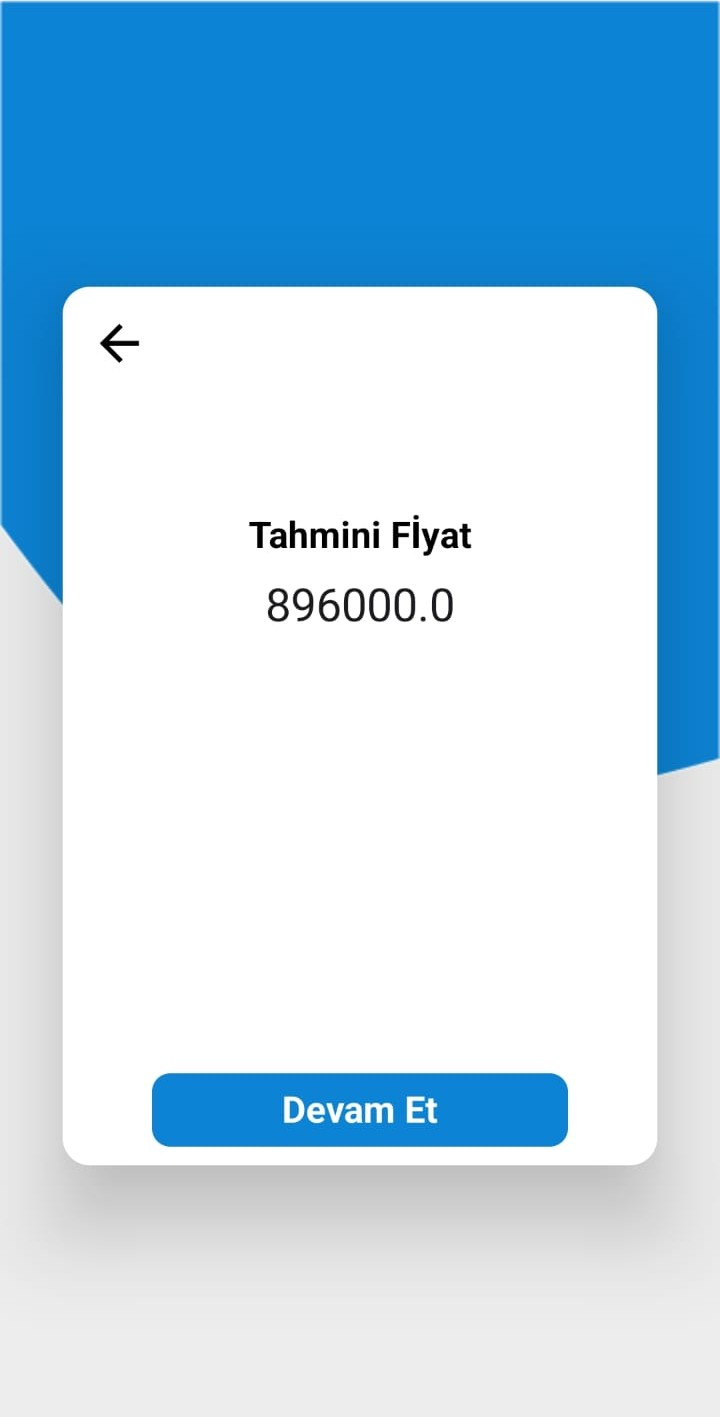
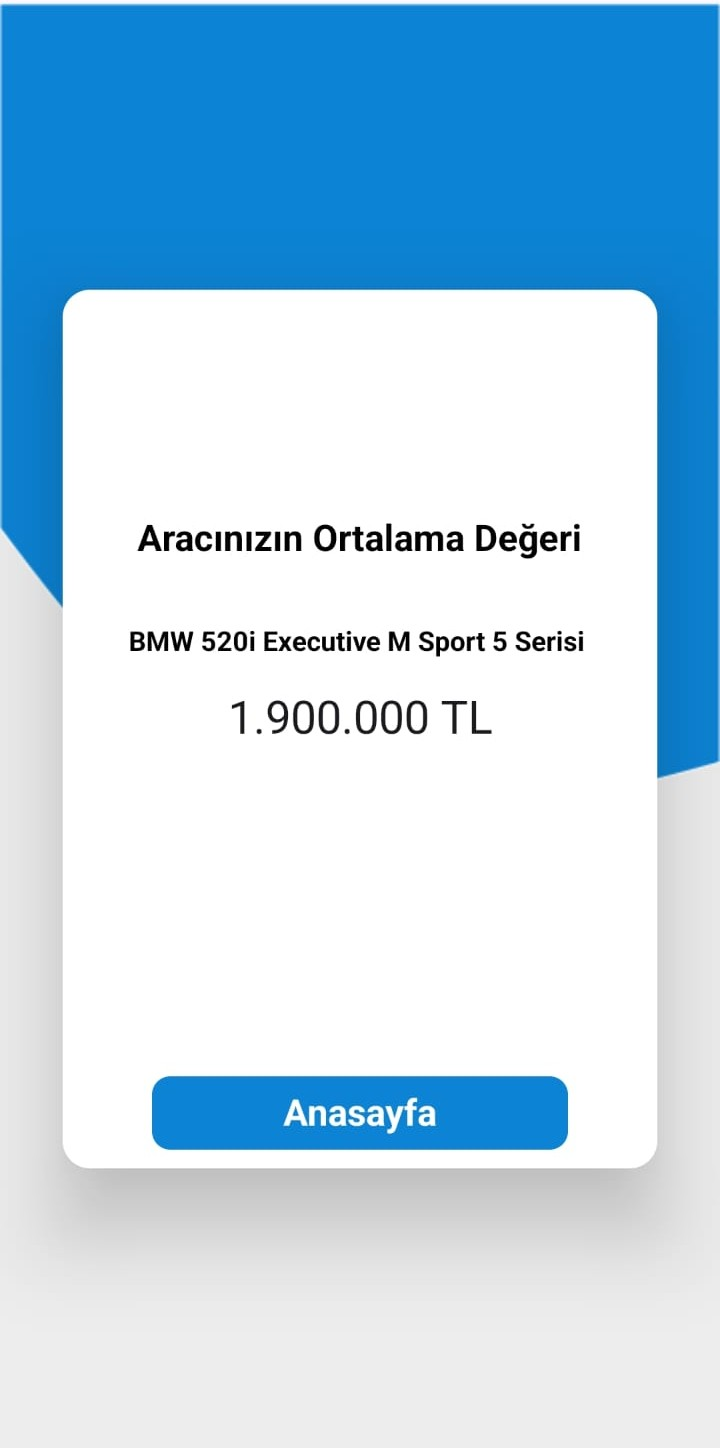
Sonuc Sayfasi guncellendi

diff --git a/App/app/src/main/java/com/example/carworth/uix/view/SonucSayfasi.kt b/App/app/src/main/java/com/example/carworth/uix/view/SonucSayfasi.kt
@@ -1,0 +1,141 @@
+package com.example.carworth.uix.view
+
+import androidx.compose.foundation.Image
+import androidx.compose.foundation.background
+import androidx.compose.foundation.layout.Box
+import androidx.compose.foundation.layout.Column
+import androidx.compose.foundation.layout.fillMaxSize
+import androidx.compose.foundation.layout.fillMaxWidth
+import androidx.compose.foundation.layout.height
+import androidx.compose.foundation.layout.padding
+import androidx.compose.foundation.layout.width
+import androidx.compose.foundation.shape.RoundedCornerShape
+import androidx.compose.material3.Button
+import androidx.compose.material3.ButtonDefaults
+import androidx.compose.material3.CircularProgressIndicator
+import androidx.compose.material3.Scaffold
+import androidx.compose.material3.Text
+import androidx.compose.runtime.Composable
+import androidx.compose.runtime.LaunchedEffect
+import androidx.compose.runtime.mutableStateOf
+import androidx.compose.runtime.remember
+import androidx.compose.ui.Alignment
+import androidx.compose.ui.Modifier
+import androidx.compose.ui.draw.shadow
+import androidx.compose.ui.graphics.Color
+import androidx.compose.ui.layout.ContentScale
+import androidx.compose.ui.res.painterResource
+import androidx.compose.ui.text.TextStyle
+import androidx.compose.ui.text.font.FontWeight
+import androidx.compose.ui.tooling.preview.Preview
+import androidx.compose.ui.unit.dp
+import androidx.compose.ui.unit.sp
+import androidx.navigation.NavController
+import com.example.carworth.R
+import com.example.carworth.ui.theme.MainColor
+import com.example.carworth.ui.theme.backgroundColor
+import com.example.carworth.uix.view.fonk.Araba
+import com.example.carworth.uix.view.fonk.VSpacers
+import com.example.carworth.uix.view.fonk.getArabaFiyati
+import java.text.NumberFormat
+import java.util.Locale
+
+
+@Composable
+fun SonucSayfasi(navController: NavController,araba: Araba) {
+    val fiyat = remember { mutableStateOf("") }
+    val loading = remember { mutableStateOf(true) }
+    Scaffold { paddingValues ->
+        Column(
+            modifier = Modifier
+                .fillMaxSize()
+                .padding(paddingValues)
+                .background(color = backgroundColor),
+            horizontalAlignment = Alignment.CenterHorizontally
+        ) {
+            Box() {
+                Image(
+                    painter = painterResource(R.drawable.vector),
+                    contentDescription = "",
+                    modifier = Modifier.fillMaxWidth(),
+                    contentScale = ContentScale.Crop
+                )
+                Column(horizontalAlignment = Alignment.CenterHorizontally) {
+                    Box(
+                        modifier = Modifier
+                            .padding(start = 34.dp, end = 34.dp, top = 156.dp, bottom = 156.dp)
+                            .width(335.dp)
+                            .height(535.dp)
+                            .shadow(elevation = 35.dp)
+                            .background(
+                                color = Color(0xFFFFFFFF),
+                                shape = RoundedCornerShape(size = 15.dp)
+                            ),
+                        contentAlignment = Alignment.Center
+                    ) {
+                        Box(modifier = Modifier.fillMaxSize()) {
+                            Column(
+                                horizontalAlignment = Alignment.CenterHorizontally,
+                                modifier = Modifier
+                                    .fillMaxWidth()
+                                    .padding(top = 124.dp)
+                            ) {
+                                Text(
+                                    text = "Aracınızın Ortalama Değeri",
+                                    style = TextStyle(
+                                        fontSize = 20.sp,
+                                        fontWeight = FontWeight.Bold,
+                                        color = Color.Black
+                                    )
+                                )
+                                VSpacers(36)
+                                Text(text = "${araba.marka} ${araba.seri} ${araba.model} ",
+                                    style = TextStyle(
+                                        fontSize = 15.sp,
+                                        fontWeight = FontWeight.Bold,
+                                        color = Color.Black))
+                                VSpacers(18)
+                                LaunchedEffect(araba) {
+                                    loading.value = true
+                                    val price = getArabaFiyati(araba)
+                                    fiyat.value = price?.let { "$it" } ?: "Hata"
+                                    loading.value = false
+                                }
+                                if (loading.value) {
+                                    CircularProgressIndicator()
+                                } else {
+                                    val sonuc = NumberFormat.getNumberInstance(Locale("tr", "TR"))
+                                        .format((fiyat.value.toDouble()).toInt())
+                                    Text("$sonuc TL" ?: "Hata oluştu!", fontSize = 25.sp)
+                                }
+
+
+
+                            }
+                            Button(
+                                onClick = {
+                                    navController.navigate("anasayfa"){
+                                        popUpTo("sonucsayfasi"){inclusive=true}
+                                    }
+
+                                },
+                                shape = RoundedCornerShape(10.dp),
+                                colors = ButtonDefaults.buttonColors(containerColor = MainColor, contentColor = Color.White),
+                                modifier = Modifier
+                                    .fillMaxWidth(0.7f)
+                                    .height(50.dp)
+                                    .align(Alignment.BottomCenter)
+                                    .padding(bottom = 10.dp)
+                            ) {
+                                Text("Anasayfa", style = TextStyle(fontSize = 20.sp, fontWeight = FontWeight.Bold))
+                            }
+
+                        }
+                    }
+                }
+
+
+            }
+        }
+    }
+}

diff --git a/App/app/src/main/java/com/example/carworth/uix/view/SoruSayfalari.kt b/App/app/src/main/java/com/example/carworth/uix/view/SoruSayfalari.kt
@@ -41,6 +41,7 @@ import com.example.carworth.uix.view.fonk.Listeler
 import com.example.carworth.uix.view.fonk.Textfields
 import com.example.carworth.uix.view.fonk.VSpacers
 import com.example.carworth.uix.view.fonk.getArabaFiyati
+import com.google.gson.Gson
 
 @Composable
 
@@ -65,8 +66,7 @@ fun SoruSayfalari(navController: NavController){
     val girilenTramer=remember{mutableStateOf(0.0)}
     val secilenBoya=remember{mutableStateOf(0)}
     val secilenDegisen=remember{mutableStateOf(0)}
-    val fiyat=remember{mutableStateOf("")}
-    val loading = remember { mutableStateOf(true) }
+
 
 
     Scaffold {paddingValues ->
@@ -136,51 +136,28 @@ fun SoruSayfalari(navController: NavController){
                                         Textfields("Tramer","Tramer",{ deger -> girilenTramer.value = deger.toDouble() })
                                     }
                                     7->{
-                                        Column(
-                                            horizontalAlignment = Alignment.CenterHorizontally,
-                                            modifier = Modifier
-                                                .fillMaxWidth()
-                                                .padding(top = 124.dp)) {
-                                            Text(
-                                                text = "Tahmini Fİyat",
-                                                style = TextStyle(fontSize = 20.sp, fontWeight = FontWeight.Bold, color = Color.Black)
-                                            )
-                                            VSpacers(12)
-                                            val araba= Araba(
-                                                secilenSehir.value,
-                                                secilenMarka.value,
-                                                secilenSeri.value,
-                                                secilenModel.value,
-                                                secilenYil.value,
-                                                girilenKM.value,
-                                                secilenrenk.value,
-                                                secilenVitesTipi.value,
-                                                secilenYakitTipi.value,
-                                                secilenKasaTipi.value,
-                                                girilenMotorHacmi.value,
-                                                girilenMotorGucu.value,
-                                                secilenCekis.value,
-                                                girilenOrtYakit.value,
-                                                girilenYakitDepo.value,
-                                                secilenBoya.value,
-                                                secilenDegisen.value,
-                                                girilenTramer.value)
+                                        val araba= Araba(
+                                            secilenSehir.value,
+                                            secilenMarka.value,
+                                            secilenSeri.value,
+                                            secilenModel.value,
+                                            secilenYil.value,
+                                            girilenKM.value,
+                                            secilenrenk.value,
+                                            secilenVitesTipi.value,
+                                            secilenYakitTipi.value,
+                                            secilenKasaTipi.value,
+                                            girilenMotorHacmi.value,
+                                            girilenMotorGucu.value,
+                                            secilenCekis.value,
+                                            girilenOrtYakit.value,
+                                            girilenYakitDepo.value,
+                                            secilenBoya.value,
+                                            secilenDegisen.value,
+                                            girilenTramer.value)
+                                        val arabaJson= Gson().toJson(araba)
+                                        navController.navigate("sonucsayfasi/$arabaJson")
 
-
-                                            LaunchedEffect(araba) {
-                                                loading.value = true
-                                                val price = getArabaFiyati(araba)
-                                                fiyat.value = price?.let { "$it" } ?: "Hata oluştu!"
-                                                loading.value = false
-                                            }
-                                            if (loading.value) {
-                                                CircularProgressIndicator()
-                                            } else {
-                                                Text(fiyat.value ?: "Hata oluştu!", fontSize = 25.sp)
-                                            }
-
-
-                                        }
                                     }
                                 }
                             }

diff --git a/App/app/src/main/java/com/example/carworth/uix/view/fonk/Listeler.kt b/App/app/src/main/java/com/example/carworth/uix/view/fonk/Listeler.kt
@@ -52,7 +52,7 @@ class Listeler(){
         "Peugeot" to listOf("207", "206", "106", "508", "107", "301", "208", "307", "308", "306", "206+", "407", "406", "RCZ", "807"),
         "Porsche" to listOf("Panamera"),
         "Proton" to listOf("418", "415", "Gen 2", "315", "Waja"),
-        "Renault" to listOf("Megane", "Clio", "Symbol", "Fluence", "Talisman", "Laguna", "Modus", "Taliant", "Latitude", "Scenic", "Grand Scenic", "Safrane", "Espace", "Twingo"),
+        "Renault" to listOf("Megane", "Clio", "Symbol", "Fluence", "Talisman", "Laguna", "Modus", "Taliant", "Latitude", "Scenic", "Grand Scenic", "Safrane", "Espace", "Twingo","R 19"),
         "Rover" to listOf("214", "216", "414", "25", "75", "416"),
         "Seat" to listOf("Ibiza", "Leon", "Toledo", "Cordoba", "Alhambra", "Exeo", "Altea"),
         "Skoda" to listOf("Octavia", "Fabia", "Scala", "SuperB", "Rapid", "Felicia", "Roomster"),
@@ -280,6 +280,7 @@ class Listeler(){
         "Punto" to listOf("Grande 1.4 Fire Active", "1.4 Dynamic", "EVO 1.3 Multijet Active", "Grande 1.3 Multijet Active", "Grande 1.4 Fire Dynamic", "EVO 1.4 Dynamic", "EVO 1.4 Fire Dynamic", "1.4 Easy S&S", "1.3 Multijet Pop", "1.2 Dynamic", "Grande 1.3 Multijet Dynamic", "1.3 Multijet Dynamic", "1.4 Popstar S&S", "EVO 1.4 Active", "1.4 Lounge S&S", "Grande 1.4 T-Jet Dynamic", "EVO 1.3 Multijet Dynamic", "Grande 1.4 Starjet Dynamic", "1.2 Pop", "1.3 Multijet Lounge", "1.4 Pop S&S", "1.3 Multijet Urban", "1.3 Multijet Easy", "Grande 1.3 Multijet Emotion", "1.3 Multijet Popstar", "1.2 Popstar", "Grande 1.3 Multijet 1.3 Multijet", "Grande 1.4 Fire S&S", "1.4 Mair Easy S&S", "EVO 1.4 Fire My Life", "EVO 1.3 Multijet My Life", "Grande 1.4 T-Jet Sport", "EVO 1.4 Multiair Dynamic", "Grande 1.3 Multijet Fun", "1.3 Multijet Shine", "Grande 1.4 Fire Fun", "Grande 1.2 S5"),
         "Q30" to listOf("1.6"),
         "RCZ" to listOf("1.6 THP Evolution", "1.6 THP Yearling"),
+        "R 19" to listOf("1.4", "1.4 Europa", "1.6", "1.6 Europa", "1.7", "1.7 Europa", "1.8", "1.8 Europa", "1.8 RTi", "1.9", "1.9 Europa"),
         "Rapid" to listOf("1.2 TSI Ambition", "1.6 TDI Spaceback Elegance", "1.4 TDI Ambition", "1.6 TDI Elegance", "1.4 TDI GreenTec Style", "1.2 Spaceback Ambition", "1.6 TDI Active", "1.6 TDI Ambition", "1.0 TSI GreenTec Style", "1.2 Ambition", "1.2 TSI Spaceback Elegance", "1.0 TSI GreenTec Ambition", "1.2 TSI GreenTec Style", "1.4 TDI GreenTec Ambition"),
         "Rezzo" to listOf("1.6 SX Comfort"),
         "Rio" to listOf("1.5 CRDi EX Comfort", "1.25 CVVT Fancy", "1.5 Comfort", "1.4 CVVT Fancy", "1.4 GSL Trend", "1.4 CVVT Cool", "1.4 CVVT Comfort", "1.4 CRDi Concept", "1.5 CRDi Trend", "1.5 CRDi EX Advance", "1.4 CRDi Fancy", "1.4 CRDi Concept Plus", "1.4 CRDi Natty", "1.4 CRDi Sporty", "1.4 WGT Cool", "1.4 EX Comfort", "1.4 CRDi Comfort", "1.25 CVVT Cool", "1.4 CVVT Concept", "1.25 CVVT Concept", "1.3 Comfort", "1.4 WGT Elegance", "1.4 EX Advance", "1.25 CVVT Comfort", "1.5 Trend", "1.25 CVVT Natty", "1.3 Trend", "1.4 CVVT Natty", "1.4L MPI Elegance", "1.3 Base", "1.25 CVVT Elegance Tekno"),
@@ -367,7 +368,7 @@ class Listeler(){
 
     val cekis=listOf("Önden Çekiş","Arkadan İtiş","4WD (Sürekli)","AWD (Elektronik)")
 
-    val yil = (1975..2025).toList()
+    val yil = (2025 downTo 1975).toList()
 
     val boyaDegisen=(0..15).toList()
 

diff --git a/App/app/src/main/java/com/example/carworth/uix/view/SayfaGecisi.kt b/App/app/src/main/java/com/example/carworth/uix/view/SayfaGecisi.kt
@@ -1,9 +1,13 @@
 package com.example.carworth.uix.view
 
 import androidx.compose.runtime.Composable
+import androidx.navigation.NavType
 import androidx.navigation.compose.NavHost
 import androidx.navigation.compose.composable
 import androidx.navigation.compose.rememberNavController
+import androidx.navigation.navArgument
+import com.example.carworth.uix.view.fonk.Araba
+import com.google.gson.Gson
 
 @Composable
 fun SayfaGecisi(secilenSayfa: String){
@@ -12,10 +16,20 @@ fun SayfaGecisi(secilenSayfa: String){
         composable(route="anasayfa"){
             Anasayfa(navController)
         }
-
         composable(route="sorusayfasi") {
             SoruSayfalari(navController)
         }
+
+        composable(route = "sonucsayfasi/{araba}",
+            arguments = listOf(
+                navArgument("araba"){type= NavType.StringType})
+            )
+            {
+            val jsonAraba=it.arguments?.getString("araba")!!
+            val araba= Gson().fromJson(jsonAraba, Araba::class.java)
+            SonucSayfasi(navController,araba)
+        }
+
     }
 
 
